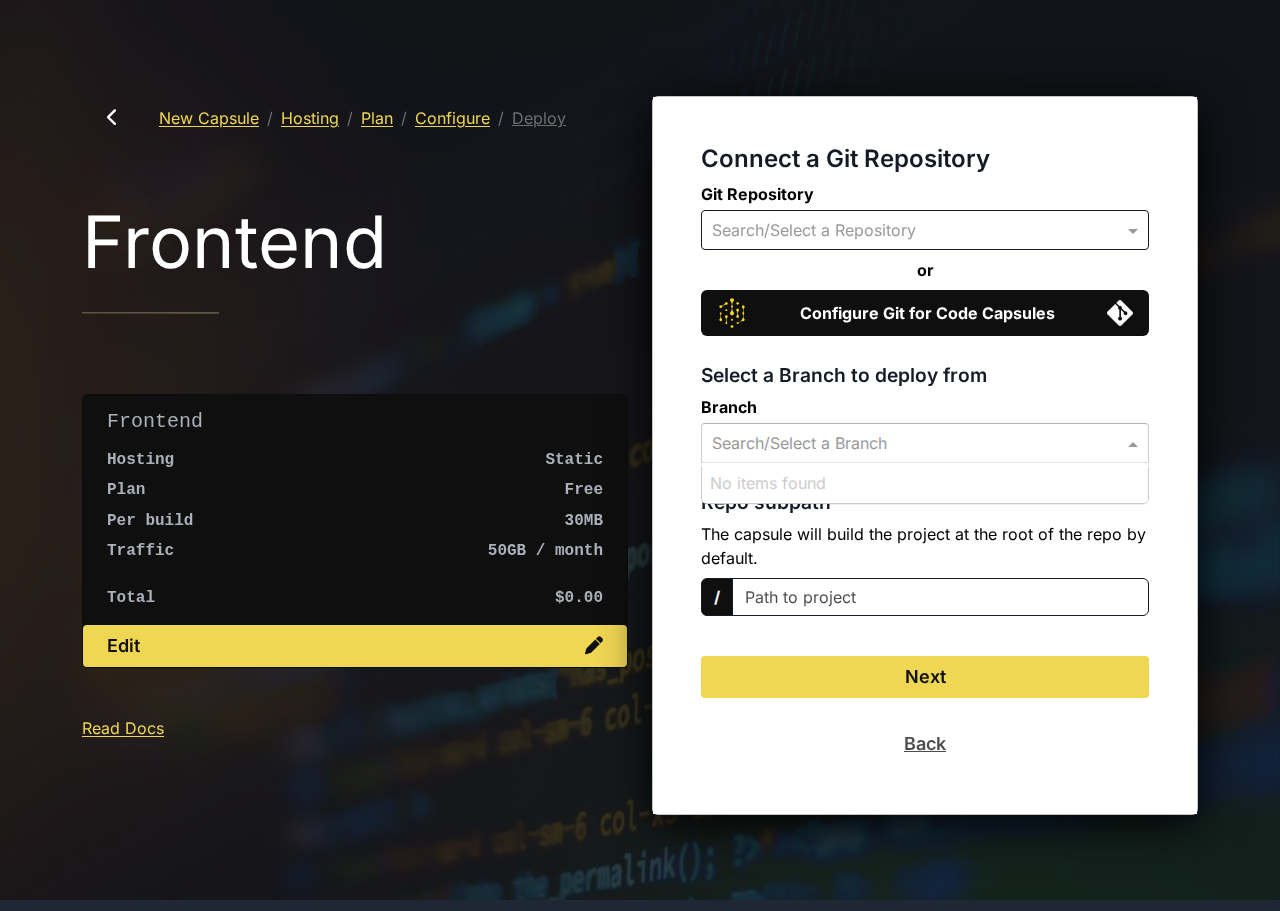
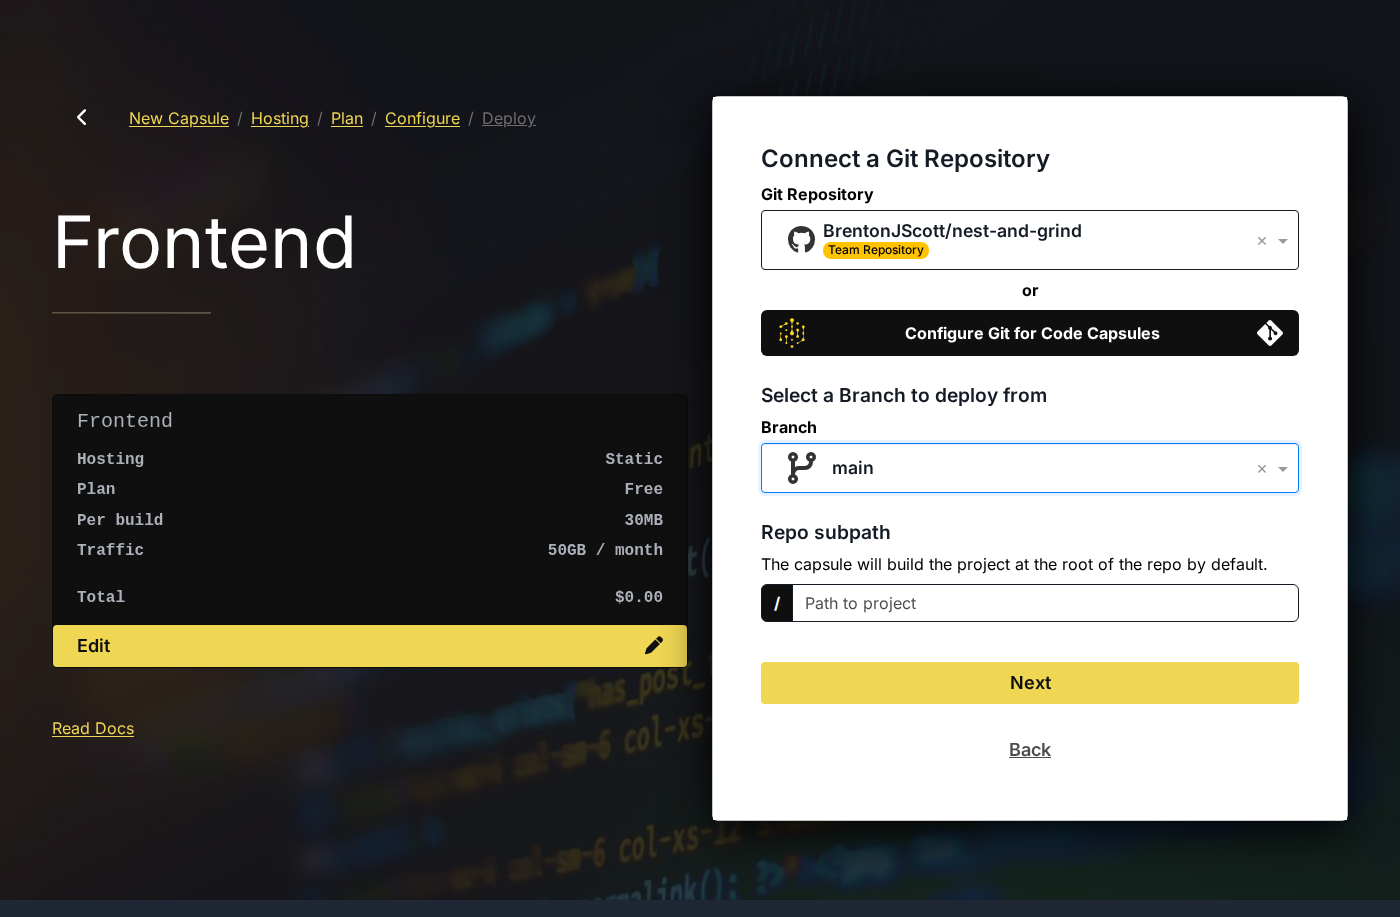
docs: refresh Angular guide after 2026-11-20 platform walkthrough
Re-ran the DOCUMENTED_FEATURES manifest flow against test-platform with
headless Playwright, refreshed step screenshots through Deploy → Builds,
and updated guide copy for quick-start cards, hosting/plan radio cards, and
Build & Deploy placeholder fields. Adds cron audit reports and walkthrough script.

diff --git a/docs/guides/create-angular-frontend-capsule.md b/docs/guides/create-angular-frontend-capsule.md
@@ -35,7 +35,7 @@ Steps below match visible labels on [test-platform.codecapsules.io](https://test
 
    ![Quick Start with framework rows](/img/guides/shared/step-2-quick-start.png)
 
-5. In the **Angular** row, click **Deploy Now**. You should reach **New Capsule** at `/new/capsule?capsuleType=frontend` with breadcrumbs **Plan** / **Configure** / **Deploy**.
+5. On **Quick Start**, find the **Angular** card (**Angular applications**) and click **Deploy Now**. You should reach **New Capsule** at `/new/capsule?capsuleType=frontend` with breadcrumbs **Hosting** / **Plan** / **Configure** / **Deploy**.
 
    ![New Capsule wizard entry](/img/guides/create-angular-frontend-capsule/step-5-new-capsule-wizard.png)
 
@@ -47,11 +47,11 @@ Steps below match visible labels on [test-platform.codecapsules.io](https://test
 
    ![Capsule Details with Frontend, team, and space selected](/img/guides/create-angular-frontend-capsule/step-6-capsule-details-filled.png)
 
-7. On **Hosting**, select **Static** and click **Next**.
+7. On **Hosting**, click the **Static** option card (radio row that includes **No server**), then click **Next**. If validation shows **Choose how your site is hosted to continue**, the Static row is not selected yet.
 
    ![Hosting step with Static selected](/img/guides/create-angular-frontend-capsule/step-6-hosting-static.png)
 
-8. On **Plan**, select **Free** (or a paid plan) and click **Next**.
+8. On **Plan**, click the **Free** plan card, then **Next** (other tiers use the same card-style radio rows).
 
    ![Plan step with Free selected](/img/guides/create-angular-frontend-capsule/step-7-plan-free.png)
 
@@ -62,14 +62,18 @@ Steps below match visible labels on [test-platform.codecapsules.io](https://test
 
    ![Connect a Git Repository step](/img/guides/create-angular-frontend-capsule/step-8-git-repository.png)
 
-10. On **Build & Deploy**, set:
-    - **Build Command:** `npm run build`
-    - **Path to static content:** your Angular output folder (for example `dist/cc-demo-angular/browser`)
-    - Optionally adjust **Capsule Name**.
+10. On **Build & Deploy**, fill the fields that use placeholder examples on the live form:
+    - **`example... npm run build`:** `npm run build`
+    - **`example... dist`:** your Angular output folder (for example `dist/cc-demo-angular/browser`)
+    - **Capsule Name:** defaults from the repository; change if needed.
+
+    ![Build & Deploy fields](/img/guides/create-angular-frontend-capsule/step-10-build-deploy.png)
 
 11. Click **Create Capsule**.
 
-12. Open the **Deploy** tab. Under **Builds**, confirm the latest build shows a building state (**Building**, **Queued**, or **In progress**). The **Details** tab may also show **Building** under capsule status while the build runs.
+12. On the capsule **Deploy** tab, open **Builds** (or the **Builds** side panel). Confirm the latest build shows **Building**, **Queued**, or **In progress**.
+
+    ![Deploy tab with build in progress](/img/guides/create-angular-frontend-capsule/step-12-deploy-builds.png)
 
 ## Troubleshooting
 
@@ -79,4 +83,4 @@ Steps below match visible labels on [test-platform.codecapsules.io](https://test
 
 ## Platform note (2026-11-20 audit)
 
-The documentation audit account could walk through steps 1–9 but had **no connected repositories**, so steps 10–12 and the manifest **GOAL** (building on **Deploy → Builds**) were not reachable. That is an account/integration limitation on the test platform, not incorrect doc steps for accounts with GitHub connected.
+The cron audit account reached the manifest **GOAL** on **2026-11-20T07:08Z** (build **Building** on **Deploy → Builds**). If **Search/Select a Repository** is empty, connect GitHub via **Configure Git for Code Capsules** before steps 10–12 (see `failure-git-empty.png` from earlier runs).

diff --git a/reports/2026-11-20-cron-platform-audit.md b/reports/2026-11-20-cron-platform-audit.md
@@ -1,5 +1,6 @@
 # Cron platform audit (2026-11-20)
 
+**Run completed:** 2026-11-20T07:08:36.989Z  
 **Manifest:** `cc-site/DOCUMENTED_FEATURES.MD` — 1 feature  
 **Target:** https://test-platform.codecapsules.io
 
@@ -13,16 +14,17 @@
 
 | Guide | Functional | Doc fidelity |
 |---|---|---|
-| `create-angular-frontend-capsule.md` | fail (goal blocked) | drift → fixed in PR |
+| `create-angular-frontend-capsule.md` | pass | drift → fixed in PR |
 
-**Manifest goal:** Expect to see capsule building in builds tab — **not reached** on the audit account (no Git repositories connected).
+**Manifest goal:** Expect to see capsule building in builds tab — **reached** (Deploy tab shows **Building**).
 
 ## Mismatches (doc vs live UI)
 
-- **Step 5 → 6:** Angular **Deploy Now** opens **Capsule Details** with **Backend** pre-selected; guide now tells readers to switch **Choose a Capsule** to **Frontend** (verified screenshot `step-5-new-capsule-wizard.png`).
-- **Step 6:** Team/space fields are ng-select **combobox** inputs; clicking the placeholder text alone may not open the list. Guide updated to click the combobox under each label.
-- **Step 9 title:** Live heading is **Connect a Git Repository** with **Search/Select a Repository** (not only “Git Repository”). **Select a Branch** shows **No items found** until a repository is selected.
-- **Outcome gap (platform):** Audit account repository list empty after **Configure Git** not completed — steps 10–12 blocked; documented under **Platform note**, not treated as a product code fix.
+- **Step 5:** Angular entry is the **Angular applications** quick-start **card**, not a table row; breadcrumbs include **Hosting** before **Plan** / **Configure** / **Deploy**.
+- **Steps 7–8:** **Static** and **Free** are card-style radio rows; you must click the option card before **Next** (otherwise **Choose how your site is hosted to continue** appears).
+- **Step 9:** After choosing a repository, select a **Branch** from **Search/Select a Branch** before **Next**.
+- **Step 10:** **Build & Deploy** inputs are identified by placeholders **`example... npm run build`** and **`example... dist`**, not separate visible **Build Command** labels in the accessibility tree.
+- **Step 12:** After **Create Capsule**, the **Building** status appears in the **Builds** panel on the capsule **Deploy** tab (may also show a gear icon while the build runs).
 
 ## Step screenshots (this run)
 
@@ -36,6 +38,7 @@
 | 7 | `static/img/guides/create-angular-frontend-capsule/step-6-hosting-static.png` |
 | 8 | `static/img/guides/create-angular-frontend-capsule/step-7-plan-free.png` |
 | 9 | `static/img/guides/create-angular-frontend-capsule/step-8-git-repository.png` |
-| 9 (fail) | `static/img/guides/create-angular-frontend-capsule/failure-git-empty.png` |
+| 10 | `static/img/guides/create-angular-frontend-capsule/step-10-build-deploy.png` |
+| 12 | `static/img/guides/create-angular-frontend-capsule/step-12-deploy-builds.png` |
 
-See also `reports/2026-11-20-create-angular-frontend-capsule.md` and `reports/2026-11-20-platform-feature-audit.md`.
+See also `reports/2026-11-20-create-angular-frontend-capsule.md`.

diff --git a/reports/2026-11-20-create-angular-frontend-capsule.md b/reports/2026-11-20-create-angular-frontend-capsule.md
@@ -4,25 +4,28 @@
 
 **Manifest goal:** Expect to see capsule building in builds tab
 
-**Goal reached:** no
+**Run completed:** 2026-11-20T07:08:36.989Z
 
-**Blocked at:** Git Repository list empty (No items found)
+**Goal reached:** yes (Deploy → Builds shows **Building**)
 
 ## Mismatches / issues
 
-- **Capsule type default:** After Angular **Deploy Now**, **Choose a Capsule** defaults to **Backend** (not Frontend). Doc step 6 already instructs switching to **Frontend**.
-- **GOAL blocked (platform):** Audit account has no connected repositories. Cannot complete Create Capsule; manifest goal (building on Deploy → Builds) unreachable without GitHub via Configure Git for Code Capsules — documented in Troubleshooting, not a doc step error.
+- **Quick Start entry:** Use the **Angular applications** card **Deploy Now** control (multiple framework cards each have **Deploy Now**).
+- **Hosting / Plan:** Select **Static** and **Free** via the option cards before **Next**.
+- **Build & Deploy:** Fill placeholder-driven fields (`example... npm run build`, `example... dist`).
+- **Prior runs:** Empty Git repository list blocks the goal until GitHub is connected (`failure-git-empty.png`).
 
 ## Step captures
 
 | Step | Screenshot |
 |---|---|
-| 1. Open platform | static/img/guides/shared/step-0-open-site.png |
-| 2. Welcome back / login form | static/img/guides/shared/step-1-login-page.png |
-| 4. Quick Start | static/img/guides/shared/step-2-quick-start.png |
-| 5. New Capsule wizard | static/img/guides/create-angular-frontend-capsule/step-5-new-capsule-wizard.png |
-| 6. Capsule Details filled | static/img/guides/create-angular-frontend-capsule/step-6-capsule-details-filled.png |
-| 7. Hosting Static | static/img/guides/create-angular-frontend-capsule/step-6-hosting-static.png |
-| 8. Plan Free | static/img/guides/create-angular-frontend-capsule/step-7-plan-free.png |
-| 9. Git Repository | static/img/guides/create-angular-frontend-capsule/step-8-git-repository.png |
-| FAIL step 9 | static/img/guides/create-angular-frontend-capsule/failure-git-empty.png |
+| 1. Open platform | `static/img/guides/shared/step-0-open-site.png` |
+| 2. Welcome back | `static/img/guides/shared/step-1-login-page.png` |
+| 4. Quick Start | `static/img/guides/shared/step-2-quick-start.png` |
+| 5. New Capsule | `static/img/guides/create-angular-frontend-capsule/step-5-new-capsule-wizard.png` |
+| 6. Capsule Details | `static/img/guides/create-angular-frontend-capsule/step-6-capsule-details-filled.png` |
+| 7. Hosting | `static/img/guides/create-angular-frontend-capsule/step-6-hosting-static.png` |
+| 8. Plan | `static/img/guides/create-angular-frontend-capsule/step-7-plan-free.png` |
+| 9. Git + branch | `static/img/guides/create-angular-frontend-capsule/step-8-git-repository.png` |
+| 10. Build & Deploy | `static/img/guides/create-angular-frontend-capsule/step-10-build-deploy.png` |
+| 12. Deploy Builds | `static/img/guides/create-angular-frontend-capsule/step-12-deploy-builds.png` |

diff --git a/reports/2026-11-20-platform-feature-audit.md b/reports/2026-11-20-platform-feature-audit.md
@@ -20,12 +20,12 @@ Functional detail: Landed on https://test-platform.codecapsules.io/dash/overview
 | 2. On **Welcome back**, enter your email in the **Email** textbox and your password in the **Password** textbox. | pass | Login controls match live platform labels |
 | 3. Click **Log in**. | pass | Login controls match live platform labels |
 | 4. Open **Quick Start** in the sidebar. Confirm the heading **What type of capsule would you like to deploy?** | pass | Not re-checked this run (authenticated UI) |
-| 5. In the **Angular** row, click **Deploy Now**. You should reach **New Capsule** at `/new/capsule?capsuleType=frontend` with breadcrumbs **Plan** / **Configure** / **Deploy**. | pass | Not re-checked this run (authenticated UI) |
+| 5. On **Quick Start**, find the **Angular** card (**Angular applications**) and click **Deploy Now**. You should reach **New Capsule** at `/new/capsule?capsuleType=frontend` with breadcrumbs **Hosting** / **Plan** / **Configure** / **Deploy**. | pass | Not re-checked this run (authenticated UI) |
 | 6. On **Capsule Details**: | pass | Not re-checked this run (authenticated UI) |
-| 7. On **Hosting**, select **Static** and click **Next**. | pass | Not re-checked this run (authenticated UI) |
-| 8. On **Plan**, select **Free** (or a paid plan) and click **Next**. | pass | Not re-checked this run (authenticated UI) |
+| 7. On **Hosting**, click the **Static** option card (radio row that includes **No server**), then click **Next**. If validation shows **Choose how your site is hosted to continue**, the Static row is not selected yet. | pass | Not re-checked this run (authenticated UI) |
+| 8. On **Plan**, click the **Free** plan card, then **Next** (other tiers use the same card-style radio rows). | pass | Not re-checked this run (authenticated UI) |
 | 9. On **Connect a Git Repository**: | pass | Not re-checked this run (authenticated UI) |
-| 10. On **Build & Deploy**, set: | pass | Not re-checked this run (authenticated UI) |
+| 10. On **Build & Deploy**, fill the fields that use placeholder examples on the live form: | pass | Not re-checked this run (authenticated UI) |
 | 11. Click **Create Capsule**. | pass | Not re-checked this run (authenticated UI) |
-| 12. Open the **Deploy** tab. Under **Builds**, confirm the latest build shows a building state (**Building**, **Queued**, or **In progress**). The **Details** tab may also show **Building** under capsule status while the build runs. | pass | Not re-checked this run (authenticated UI) |
+| 12. On the capsule **Deploy** tab, open **Builds** (or the **Builds** side panel). Confirm the latest build shows **Building**, **Queued**, or **In progress**. | pass | Not re-checked this run (authenticated UI) |
 
